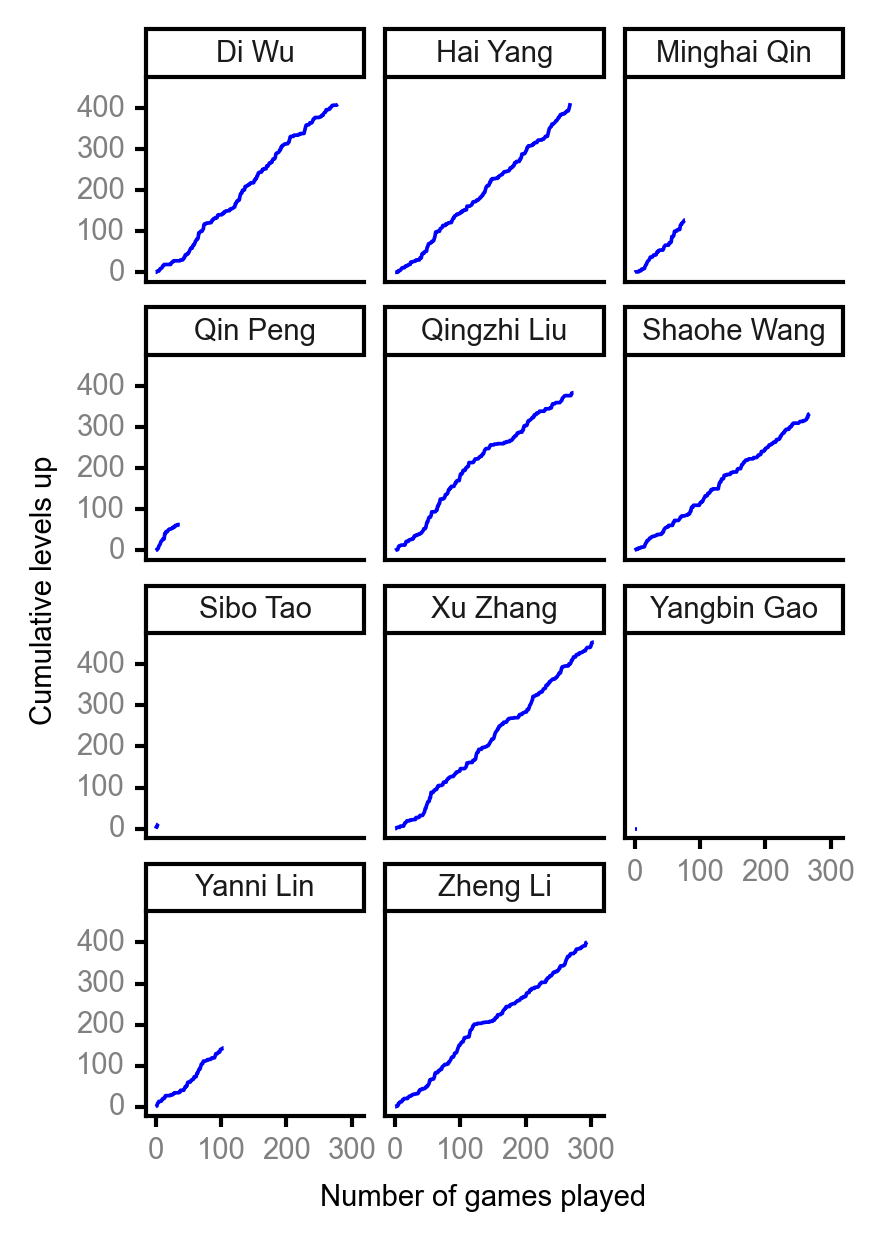
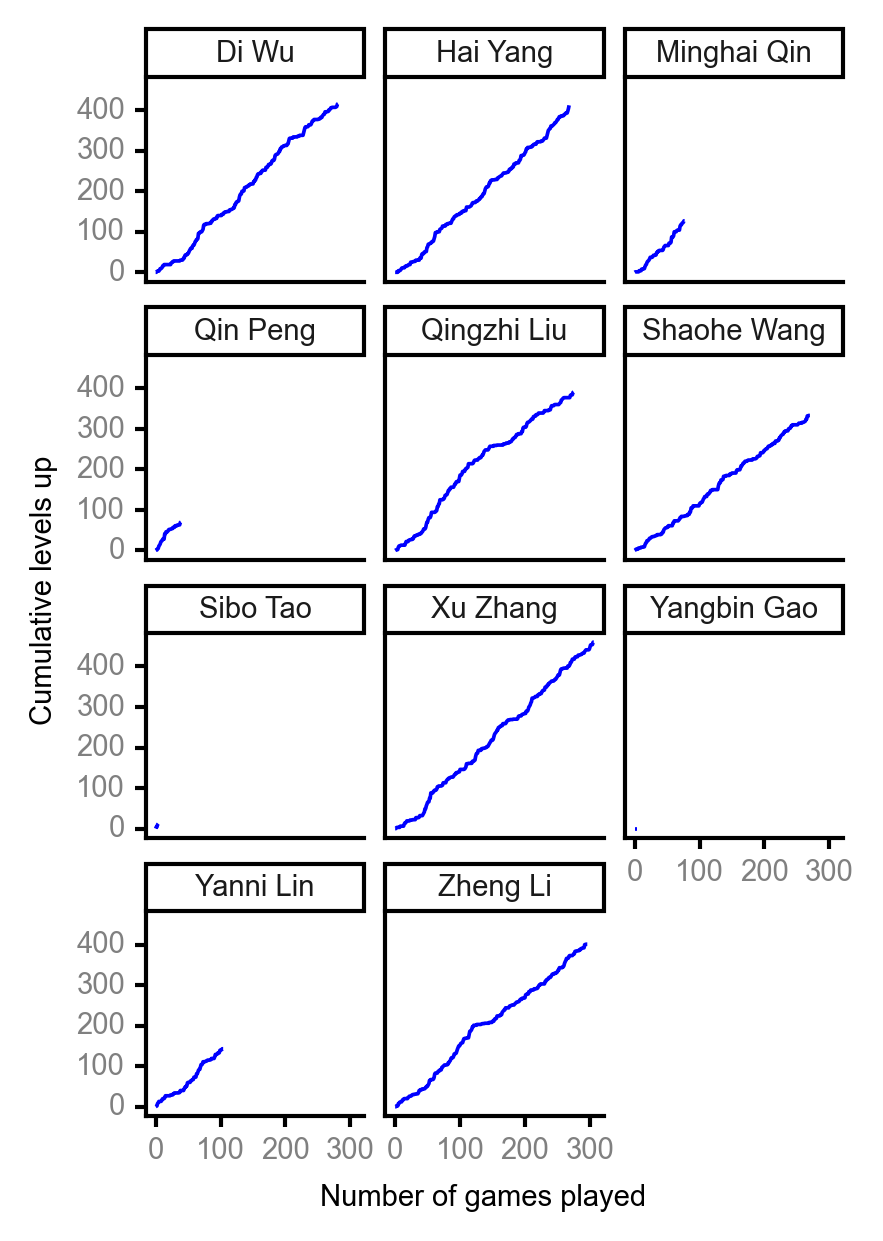
update player stats

diff --git a/player_stats.md b/player_stats.md
@@ -14,15 +14,15 @@ date: 2021-06-26
 
 | <br><br><br>Rank | <br><br><br>Player | <br> Lifetime <br> levels <br> up | <br><br> Winning <br> rate | <br> Average <br> levels <br> up | <br> Total <br> games <br> played | Games <br> played <br> as <br> MVP | Games <br> played <br> as <br> dealer | N_games <br> short <br> staffed <br> as dealer | Winning <br> rate <br> as <br> dealer |
 |:---:|:---:|:---:|:---:|:---:|:---:|:---:|:---:|:---:|:---:|
-| 1 | Xu <br> Zhang | 460 | 54.8% | 2.75 | 305 | 20 | 59 | 2 | 47.5% |
-| 2 | Di <br> Wu | 415 | 48.9% | 3.03 | 280 | 33 | 47 | 0 | 51.1% |
+| 1 | Xu <br> Zhang | 460 | 54.4% | 2.75 | 307 | 20 | 59 | 2 | 47.5% |
+| 2 | Di <br> Wu | 416 | 48.9% | 3.01 | 282 | 33 | 47 | 0 | 51.1% |
 | 3 | Hai <br> Yang | 413 | 52.4% | 2.93 | 269 | 25 | 50 | 1 | 54.0% |
-| 4 | Zheng <br> Li | 401 | 53.2% | 2.55 | 295 | 15 | 47 | 1 | 55.3% |
-| 5 | Qingzhi <br> Liu | 390 | 49.6% | 2.87 | 274 | 15 | 48 | 4 | 45.8% |
-| 6 | Shaohe <br> Wang | 333 | 45.4% | 2.73 | 269 | 14 | 42 | 3 | 45.2% |
+| 4 | Zheng <br> Li | 401 | 52.9% | 2.55 | 297 | 15 | 47 | 1 | 55.3% |
+| 5 | Qingzhi <br> Liu | 392 | 50.0% | 2.84 | 276 | 15 | 49 | 4 | 46.9% |
+| 6 | Shaohe <br> Wang | 334 | 45.4% | 2.72 | 271 | 14 | 42 | 3 | 45.2% |
 | 7 | Yanni <br> Lin | 144 | 47.6% | 2.88 | 105 | 10 | 11 | 2 | 36.4% |
 | 8 | Minghai <br> Qin | 127 | 52.6% | 3.10 | 78 | 1 | 11 | 1 | 72.7% |
-| 9 | Qin <br> Peng | 69 | 57.9% | 3.14 | 38 | 4 | 3 | 0 | 66.7% |
+| 9 | Qin <br> Peng | 71 | 60.0% | 2.96 | 40 | 4 | 4 | 0 | 75.0% |
 | 10 | Sibo <br> Tao | 14 | 80.0% | 3.50 | 5 | 0 | 0 | 0 | 0.0% |
 | 11 | Yangbin <br> Gao | 0 | 0.0% | 0.00 | 4 | 0 | 0 | 0 | 0.0% |
 
